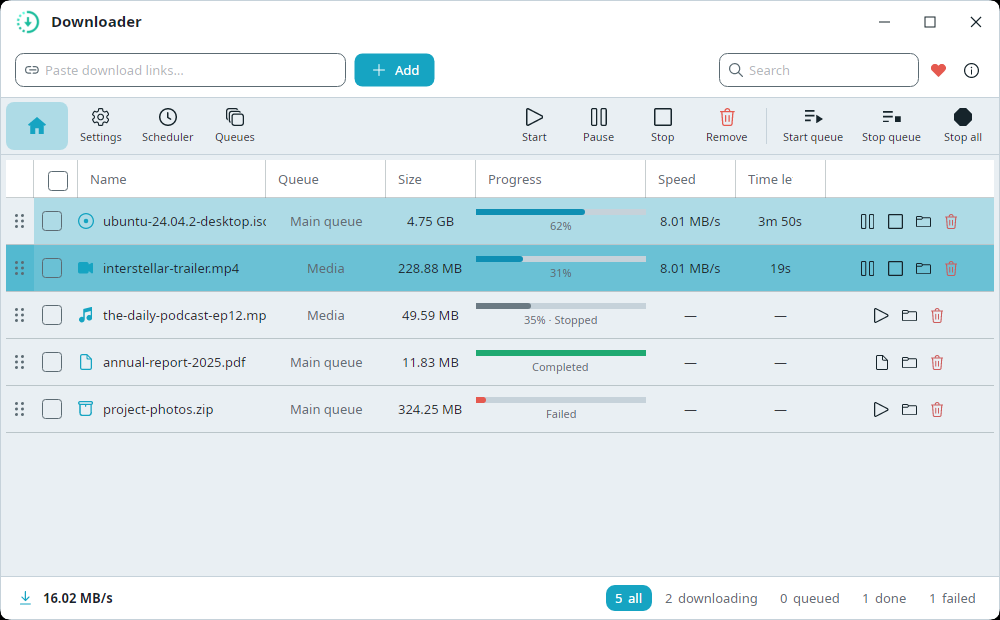
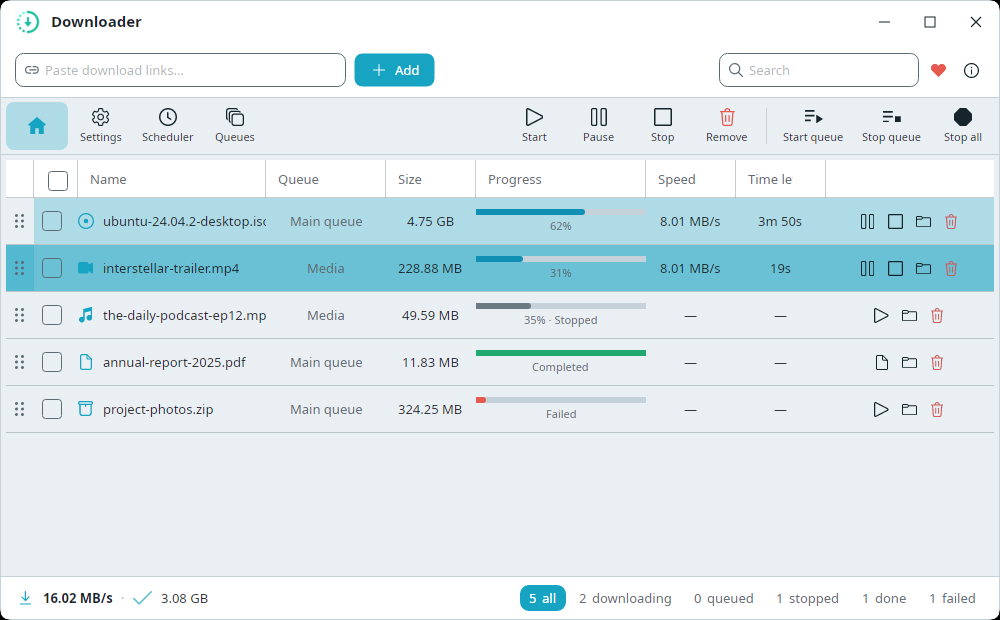
feat: Stopped/Paused footer filter + total downloaded in the status bar
Task #2: paused items normalize to Stopped on restart and then lived in no
pill — users lost them. New disjoint filter buckets: Active=Running only,
Queued=Created/None, Stopped=Paused+Stopped (new pill with count),
Completed, Failed=Failed only. Every status belongs to exactly one pill
and the counts sum to the total.

Task #18: TotalDownloadedText (human-readable sum of Downloaded across all
rows) shown beside the total speed, recomputed on the stats pump.

i18n: Status_Stopped + Status_TotalDownloaded in all 16 packs. Screenshots
regenerated (status bar shows on every page). TDD: bucket-disjointness +
total-downloaded tests written red-first; suite 426/426 green.

Claude-Session: https://claude.ai/code/session_01GpEAzmp4bQ5LDSW5ucuXk7

Changed region(s): [[0.496, 0.9194, 0.837, 1.0], [0.155, 0.95, 0.217, 0.9806]]

diff --git a/src/Downloader.Desktop/ViewModels/MainViewModel.cs b/src/Downloader.Desktop/ViewModels/MainViewModel.cs
@@ -45,6 +45,7 @@ public class MainViewModel : ViewModelBase
         ShowAllCommand = ReactiveCommand.Create(() => SelectFilter(StatusFilter.All));
         ShowActiveCommand = ReactiveCommand.Create(() => SelectFilter(StatusFilter.Active));
         ShowQueuedCommand = ReactiveCommand.Create(() => SelectFilter(StatusFilter.Queued));
+        ShowStoppedCommand = ReactiveCommand.Create(() => SelectFilter(StatusFilter.Stopped));
         ShowCompletedCommand = ReactiveCommand.Create(() => SelectFilter(StatusFilter.Completed));
         ShowFailedCommand = ReactiveCommand.Create(() => SelectFilter(StatusFilter.Failed));
         // Management pages open in-window: the central ContentControl swaps between the downloads
@@ -90,6 +91,7 @@ public class MainViewModel : ViewModelBase
     public ICommand ShowAllCommand { get; }
     public ICommand ShowActiveCommand { get; }
     public ICommand ShowQueuedCommand { get; }
+    public ICommand ShowStoppedCommand { get; }
     public ICommand ShowCompletedCommand { get; }
     public ICommand ShowFailedCommand { get; }
     public ICommand ShowDownloadsCommand { get; }
@@ -140,6 +142,7 @@ public class MainViewModel : ViewModelBase
     public bool IsAllSelected => _section == NavSection.Downloads && _filter == StatusFilter.All;
     public bool IsActiveSelected => _section == NavSection.Downloads && _filter == StatusFilter.Active;
     public bool IsQueuedSelected => _section == NavSection.Downloads && _filter == StatusFilter.Queued;
+    public bool IsStoppedSelected => _section == NavSection.Downloads && _filter == StatusFilter.Stopped;
     public bool IsCompletedSelected => _section == NavSection.Downloads && _filter == StatusFilter.Completed;
     public bool IsFailedSelected => _section == NavSection.Downloads && _filter == StatusFilter.Failed;
     public bool IsDownloadsSelected => _section == NavSection.Downloads;
@@ -149,6 +152,11 @@ public class MainViewModel : ViewModelBase
 
     // ---- Status bar ----
     public string TotalSpeedText => FormatSpeed(_downloadManager.TotalSpeed);
+
+    /// <summary>Cumulative bytes downloaded across all rows, human-readable (#18). Recomputed on the
+    /// stats pump — a single O(n) sum per 250 ms tick, negligible next to the per-row flush.</summary>
+    public string TotalDownloadedText =>
+        DownloadItemViewModel.FormatBytes(_downloadManager.Items.Sum(i => i.Downloaded));
     public int ActiveCount => _downloadManager.ActiveCount;
     public int QueuedCount => _downloadManager.QueuedCount;
     public int CompletedCount => _downloadManager.CompletedCount;
@@ -156,9 +164,11 @@ public class MainViewModel : ViewModelBase
     // ---- Footer filter counts (each matches its StatusFilter bucket exactly, so the buttons are disjoint) ----
     public int AllCount => _downloadManager.Items.Count;
     public int ActiveFilterCount => _downloadManager.Items.Count(i =>
-        i.Status is DownloadStatus.Running or DownloadStatus.Paused);
+        i.Status is DownloadStatus.Running);
     public int QueuedFilterCount => _downloadManager.Items.Count(i =>
         i.Status is DownloadStatus.Created or DownloadStatus.None);
+    public int StoppedFilterCount => _downloadManager.Items.Count(i =>
+        i.Status is DownloadStatus.Paused or DownloadStatus.Stopped);
     public int CompletedFilterCount => _downloadManager.Items.Count(i => i.Status == DownloadStatus.Completed);
     public int FailedFilterCount => _downloadManager.Items.Count(i =>
         i.Status is DownloadStatus.Failed);
@@ -478,12 +488,14 @@ public class MainViewModel : ViewModelBase
     private void OnStatsChanged()
     {
         this.RaisePropertyChanged(nameof(TotalSpeedText));
+        this.RaisePropertyChanged(nameof(TotalDownloadedText));
         this.RaisePropertyChanged(nameof(ActiveCount));
         this.RaisePropertyChanged(nameof(QueuedCount));
         this.RaisePropertyChanged(nameof(CompletedCount));
         this.RaisePropertyChanged(nameof(AllCount));
         this.RaisePropertyChanged(nameof(ActiveFilterCount));
         this.RaisePropertyChanged(nameof(QueuedFilterCount));
+        this.RaisePropertyChanged(nameof(StoppedFilterCount));
         this.RaisePropertyChanged(nameof(CompletedFilterCount));
         this.RaisePropertyChanged(nameof(FailedFilterCount));
     }
@@ -524,6 +536,7 @@ public class MainViewModel : ViewModelBase
         this.RaisePropertyChanged(nameof(IsAllSelected));
         this.RaisePropertyChanged(nameof(IsActiveSelected));
         this.RaisePropertyChanged(nameof(IsQueuedSelected));
+        this.RaisePropertyChanged(nameof(IsStoppedSelected));
         this.RaisePropertyChanged(nameof(IsCompletedSelected));
         this.RaisePropertyChanged(nameof(IsFailedSelected));
         this.RaisePropertyChanged(nameof(IsQueuesSelected));

diff --git a/src/Downloader.Desktop.Tests/UI/AppTests.cs b/src/Downloader.Desktop.Tests/UI/AppTests.cs
@@ -93,6 +93,67 @@ public class AppTests
     }
 
     [AvaloniaFact(Timeout = TestTimeouts.DefaultMs)]
+    public void Stopped_filter_lists_paused_and_stopped_and_buckets_are_disjoint()
+    {
+        var manager = new DownloadManager();
+        manager.Initialize(Config.New());
+
+        // One item per status → every bucket must own exactly its statuses, disjointly.
+        var byStatus = new Dictionary<DownloadStatus, DownloadItemViewModel>();
+        foreach (var s in new[]
+                 {
+                     DownloadStatus.Running, DownloadStatus.Paused, DownloadStatus.Stopped,
+                     DownloadStatus.Failed, DownloadStatus.Completed, DownloadStatus.Created, DownloadStatus.None
+                 })
+        {
+            var vm = manager.Add(new DownloadItem { Url = $"https://host/{s}.bin", FileName = $"{s}.bin" }, autoStart: false);
+            vm.Status = s;
+            byStatus[s] = vm;
+        }
+
+        var view = new DownloadsViewModel(manager);
+        int CountFor(StatusFilter f)
+        {
+            view.Filter = f;
+            return view.ItemsView.Count;
+        }
+
+        // The Stopped bucket owns Paused + Stopped (the user's "where did my paused items go" fix, #2).
+        view.Filter = StatusFilter.Stopped;
+        var stoppedSet = view.ItemsView.Cast<DownloadItemViewModel>().Select(i => i.Status).ToHashSet();
+        Assert.Equal(new HashSet<DownloadStatus> { DownloadStatus.Paused, DownloadStatus.Stopped }, stoppedSet);
+
+        // Disjoint + jointly exhaustive: the five buckets sum to the total.
+        var total = CountFor(StatusFilter.Active) + CountFor(StatusFilter.Queued) + CountFor(StatusFilter.Stopped)
+                    + CountFor(StatusFilter.Completed) + CountFor(StatusFilter.Failed);
+        Assert.Equal(manager.Items.Count, total);
+        Assert.Equal(manager.Items.Count, CountFor(StatusFilter.All));
+
+        // Active narrowed to Running only; Failed owns Failed only.
+        view.Filter = StatusFilter.Active;
+        Assert.Equal(DownloadStatus.Running, Assert.Single(view.ItemsView.Cast<DownloadItemViewModel>()).Status);
+        view.Filter = StatusFilter.Failed;
+        Assert.Equal(DownloadStatus.Failed, Assert.Single(view.ItemsView.Cast<DownloadItemViewModel>()).Status);
+    }
+
+    [AvaloniaFact(Timeout = TestTimeouts.DefaultMs)]
+    public void Status_bar_total_downloaded_sums_all_items()
+    {
+        var manager = new DownloadManager();
+        var main = new MainViewModel(new StubFileService(), manager);
+        manager.Initialize(Config.New());
+
+        var a = manager.Add(new DownloadItem { Url = "https://host/a.bin", FileName = "a.bin" }, autoStart: false);
+        var b = manager.Add(new DownloadItem { Url = "https://host/b.bin", FileName = "b.bin" }, autoStart: false);
+        a.Downloaded = 512 * 1024;        // 0.5 MB
+        b.Downloaded = 1536 * 1024;       // 1.5 MB
+
+        manager.RaiseStatsForTest();
+
+        Assert.Equal(DownloadItemViewModel.FormatBytes(2 * 1024 * 1024), main.TotalDownloadedText);
+    }
+
+    [AvaloniaFact(Timeout = TestTimeouts.DefaultMs)]
     public void Removing_a_queue_reassigns_its_items()
     {
         var manager = new DownloadManager();
@@ -1271,5 +1332,11 @@ public class AppTests
         var (url, name) = await manager.ResolveViaPluginsAsync("repo://owner/app", "n.bin", default);
         Assert.Equal("repo://owner/app", url);
         Assert.Equal("n.bin", name);
+    }
+
+    private sealed class StubFileService : IFileService
+    {
+        public Task<Config> LoadFromFileAsync() => Task.FromResult(Config.New());
+        public Task SaveToFileAsync(Config itemToSave) => Task.CompletedTask;
     }
 }

diff --git a/src/Downloader.Desktop/ViewModels/DownloadsViewModel.cs b/src/Downloader.Desktop/ViewModels/DownloadsViewModel.cs
@@ -247,12 +247,15 @@ public class DownloadsViewModel : ViewModelBase
                 return false;
         }
 
+        // Buckets are disjoint (see StatusFilter docs): a Paused item lives in Stopped, not Active,
+        // so no row ever matches two pills and the pill counts sum to the total.
         return _filter switch
         {
-            StatusFilter.Active => vm.Status is DownloadStatus.Running or DownloadStatus.Paused,
+            StatusFilter.Active => vm.Status is DownloadStatus.Running,
             StatusFilter.Queued => vm.Status is DownloadStatus.Created or DownloadStatus.None,
+            StatusFilter.Stopped => vm.Status is DownloadStatus.Paused or DownloadStatus.Stopped,
             StatusFilter.Completed => vm.Status == DownloadStatus.Completed,
-            // Failed = real failures only. User-Stopped items are NOT failures — they show under All.
+            // Failed = real failures only. User-Stopped items are NOT failures — they show under Stopped.
             StatusFilter.Failed => vm.Status is DownloadStatus.Failed,
             _ => true
         };

diff --git a/src/Downloader.Desktop/Services/DownloadManager.cs b/src/Downloader.Desktop/Services/DownloadManager.cs
@@ -708,6 +708,9 @@ public partial class DownloadManager : IDownloadManager
 
     private void TryStartNextInQueue(string queueId) => PumpQueue(queueId);
 
+    /// <summary>Test seam: fire the stats pump event so status-bar readouts recompute.</summary>
+    public void RaiseStatsForTest() => StatsChanged?.Invoke();
+
     /// <summary>Test seam: runs the same post-completion bookkeeping the engine's completed handler does,
     /// without a real download (mark Completed → pump the queue → maybe raise all-complete).</summary>
     public void RaiseCompletedForTest(DownloadItemViewModel vm)

diff --git a/src/Downloader.Desktop/ViewModels/Navigation.cs b/src/Downloader.Desktop/ViewModels/Navigation.cs
@@ -10,12 +10,16 @@ public enum NavSection
     Settings
 }
 
-/// <summary>Status filter applied to the downloads table.</summary>
+/// <summary>Status filter applied to the downloads table. The non-All buckets are DISJOINT and jointly
+/// exhaustive (each status belongs to exactly one): Active=Running, Queued=Created/None,
+/// Stopped=Paused+Stopped, Completed, Failed. Stopped exists so paused items — which normalize to
+/// Stopped after a restart — are never lost (#2).</summary>
 public enum StatusFilter
 {
     All,
     Active,
     Queued,
+    Stopped,
     Completed,
     Failed
 }

diff --git a/openspec/changes/status-filters-and-totals/tasks.md b/openspec/changes/status-filters-and-totals/tasks.md
@@ -4,12 +4,12 @@ Each task is TDD: failing test first, make it pass, keep build + full `dotnet te
 
 ## 1. Stopped/Paused filter (task #2)
 
-- [ ] 1.1 Write tests: a `StatusFilter.Stopped` bucket matches Paused+Stopped; buckets are disjoint and counts sum to total across a mixed list; `Failed` matches Failed only; `Active` matches Running only.
-- [ ] 1.2 Add the `Stopped` bucket to `DownloadsViewModel.Matches`, narrow `Active`/`Failed`, add `MainViewModel.ShowStoppedCommand`/`IsStoppedSelected`/`StoppedFilterCount` (+ re-raise in stats). Make 1.1 pass.
-- [ ] 1.3 Add the footer pill in `MainWindow.axaml` + i18n label in all 16 packs. Build + full tests green; regenerate the home screenshots; commit/push; wait for green CI.
+- [x] 1.1 Write tests: a `StatusFilter.Stopped` bucket matches Paused+Stopped; buckets are disjoint and counts sum to total across a mixed list; `Failed` matches Failed only; `Active` matches Running only.
+- [x] 1.2 Add the `Stopped` bucket to `DownloadsViewModel.Matches`, narrow `Active`/`Failed`, add `MainViewModel.ShowStoppedCommand`/`IsStoppedSelected`/`StoppedFilterCount` (+ re-raise in stats). Make 1.1 pass.
+- [x] 1.3 Add the footer pill in `MainWindow.axaml` + i18n label in all 16 packs. Build + full tests green; regenerate the home screenshots; commit/push; wait for green CI.
 
 ## 2. Total downloaded in status bar (task #18)
 
-- [ ] 2.1 Write a test: `MainViewModel.TotalDownloadedText` equals the human-readable sum of item `Downloaded` for a set of rows and updates on the stats pump.
-- [ ] 2.2 Implement `TotalDownloadedText` (sum in the stats-pump handler) + i18n label. Make 2.1 pass.
-- [ ] 2.3 Place it beside the speed text in `MainWindow.axaml`. Build + full tests green; regenerate home screenshots; commit/push; wait for green CI.
+- [x] 2.1 Write a test: `MainViewModel.TotalDownloadedText` equals the human-readable sum of item `Downloaded` for a set of rows and updates on the stats pump.
+- [x] 2.2 Implement `TotalDownloadedText` (sum in the stats-pump handler) + i18n label. Make 2.1 pass.
+- [x] 2.3 Place it beside the speed text in `MainWindow.axaml`. Build + full tests green; regenerate home screenshots; commit/push; wait for green CI.
